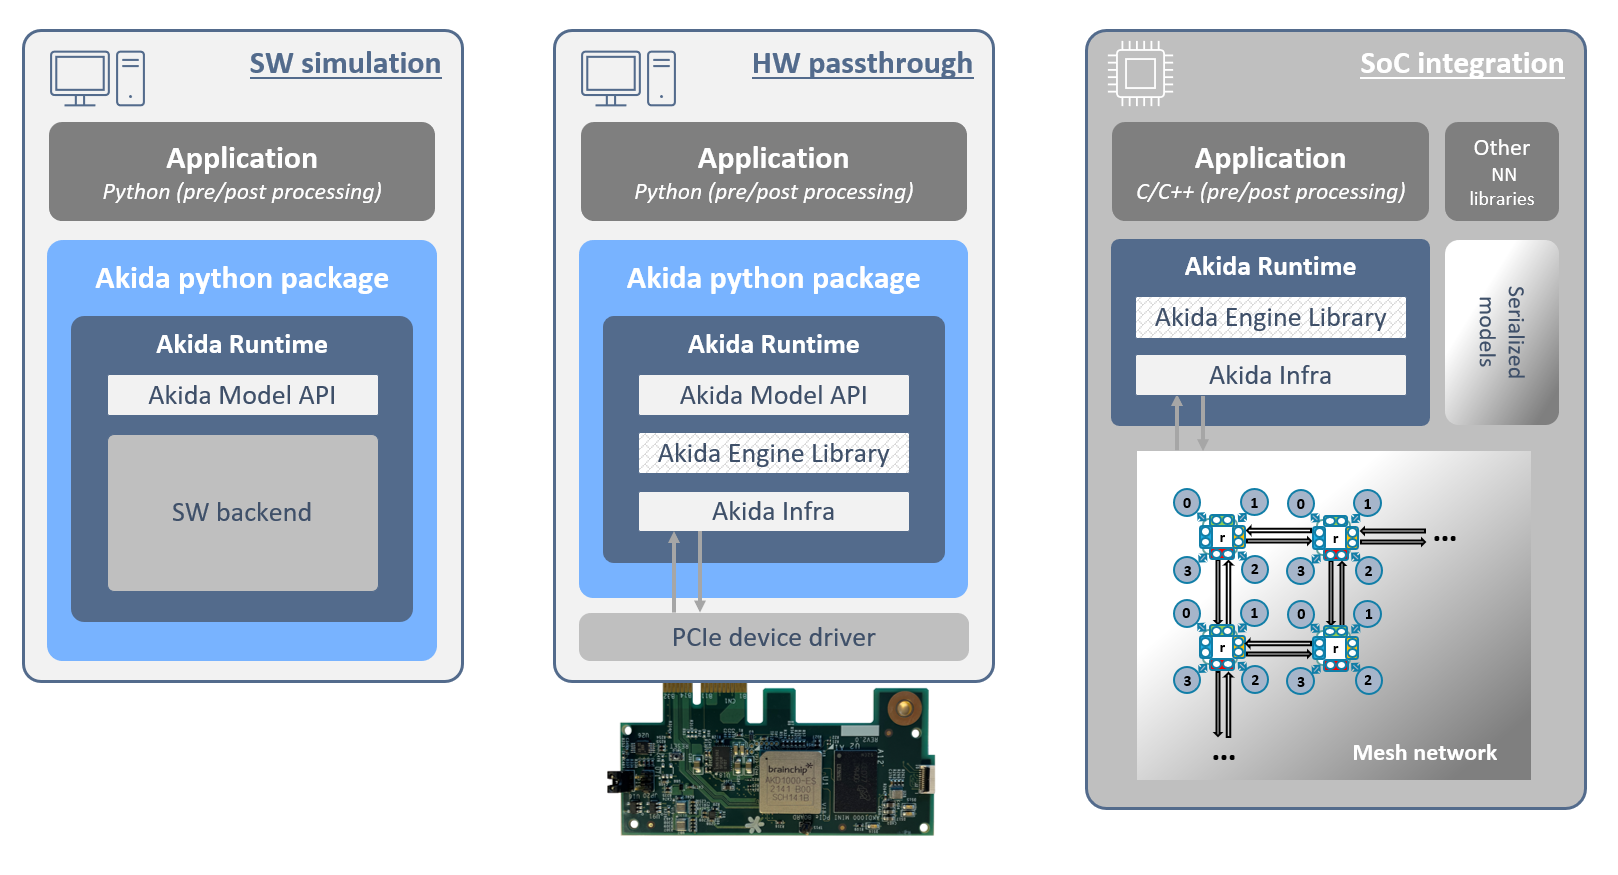
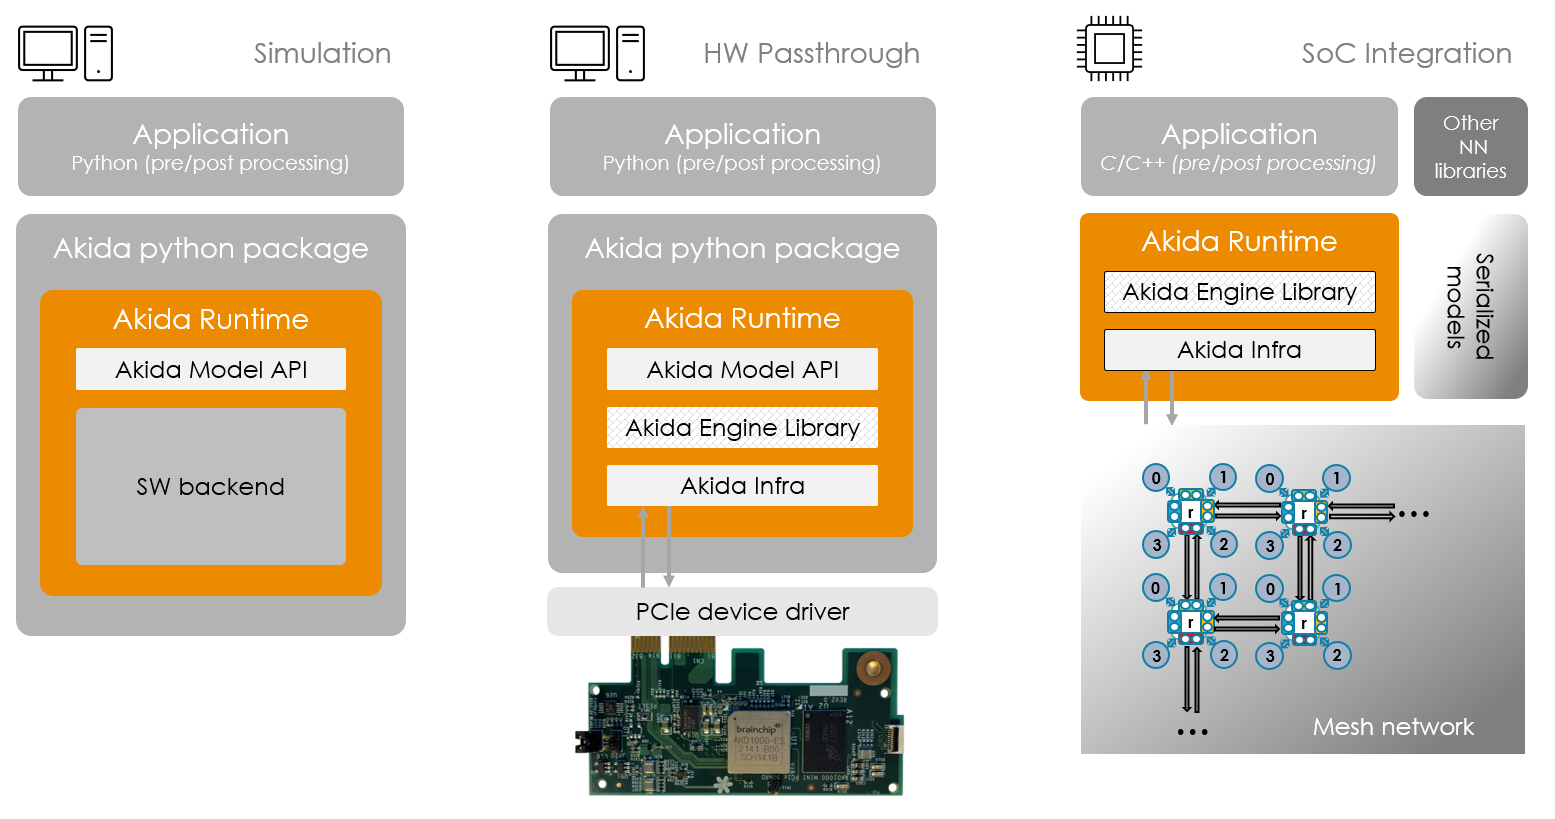
docs(overview): update and cleanup
* Updating the various figures to match BRN branding
* Removing IP related information and providing links for it
* Simplifying the information provided (details will be in
  the tutorials

diff --git a/doc/index.rst b/doc/index.rst
@@ -17,162 +17,92 @@ Overview
    license.rst
 
 
-The Akida Neural Processor
---------------------------
-
-BrainChip's Akida integrated circuit technology is an ultra-low power, high
-performance, minimum memory footprint, event domain neural processor targeting
-Edge AI applications. In addition, because the architecture is based upon an
-event domain processor, leveraging fundamental principles from biological SNNs,
-the processor supports incremental learning. This allows a deeply trained
-network to continue to learn new classifiers without requiring a re-training
-process. Due to the highly optimized architecture, the Akida Neural Processor
-eliminates the need for a CPU to run the neural network algorithm and in most
-cases eliminates the need for a DRAM external to the neural fabric. The
-elimination of external devices makes the Akida solution significantly more
-power efficient compared to deep learning accelerators which require both
-external CPU and memory.
-
-Built around a mesh-connected array of neural processor units (NPUs) the
-architecture is highly scalable to meet the needs of a wide range of
-applications. The uniqueness of the BrainChip Akida Architecture lies in the
-ability of the hardware to run traditional feedforward, deeply learned CNN
-networks as well as native SNN networks. This documentation provides examples
-of how to develop both classes of solutions, using industry standard tool flows
-and networks, to solve a variety of application problems such as vision,
-acoustic, cybersecurity amongst others.
-
-The Akida neural processor is available both as Intellectual Property (IP)
-circuit design for integration in ASIC products or as a System on a Chip (SoC)
-product.
-
-As *Figure 1* shows, the SoC is built around a core neural processor comprised
-of 80 neural processing units, it includes a conversion complex and allows one
-to run popular convolutional neural networks (CNNs) such as MobileNet [#fn-1]_.
-Designers can use the Akida SoC to run industry standard CNNs, dramatically
-reducing power by changing convolutions to event based computations, or run
-native SNN solutions.
-
-.. figure:: img/Akida_Block_Diagram.png
-   :target: _images/Akida_Block_Diagram.png
-   :alt: Brainchip
-   :scale: 60%
-   :align: center
-
-   Figure 1. BrainChip Akida processor
-
-The Akida chip includes several key features that differentiate it from other
-neural network processors and deep learning accelerators. These are:
-
-* Event-based computing leveraging inherent data and activation sparsity
-* Fully configurable neural processing cores, supporting convolutional,
-  separable-convolutional, pooling and fully connected layers
-* Incremental learning after off-line training
-* On-chip few-shot training
-* Configurable number of NPUs
-* Programmable data to event converter
-* Event-based NPU engines running on a single clock
-* Configurable on-chip SRAM memory
-* Runs full neural networks in hardware
-* On chip communication via mesh network
-* On chip learning in event domain
-* Process technology independent platform
-* Network size customizable to application needs
-* IP deliverables include: RTL, dev tools, test suites and documentation
-
-*Figure 2* shows several examples of IP configurations that could be envisioned.
-Because the architecture is based upon a neural processing unit which is
-arrayed and mesh connected, the number of NPUs per solution is dependent upon
-the application need.
-
-.. figure:: img/Akida_IP.png
-   :target: _images/Akida_IP.png
-   :alt: Brainchip
-   :scale: 60%
-   :align: center
-
-   Figure 2. Akida IP example configurations
-
-
 The Akida Neuromorphic ML Framework
 -----------------------------------
 
-The Akida Neuromorphic ML Framework (MetaTF) relies on a high-level neural
-networks API, written in Python, and largely inspired by the `Keras API
-<https://keras.io>`_.
+| The Akida Development Environment (MetaTF) is a complete machine learning
+  framework that enables the seamless creation, training, and testing of neural
+  networks running on the `Akida Neuromorphic Processor IP <https://brainchip.com/akida2-0//>`_
+  simulator and the `AKD1000 reference SoC <https://brainchip.com/akida-neural-processor-soc/>`_.
+| It relies on a high-level neural networks API, written in Python, and
+  largely inspired by the `Keras API <https://keras.io>`_. It allows early
+  evaluation and design, as well as final tuning and productization of networks.
 
-The core data structure used by the Akida runtime is a neural network
-**model**\ , which itself is a linear stack of **layers**.
+.. figure:: img/Akida_Neural_Processor.png
+  :target: _images/Akida_Neural_Processor.png
+  :alt: Brainchip
+  :scale: 40%
+  :align: center
 
-MetaTF leverages the `TensorFlow <https://www.tensorflow.org/>`_ framework and
-`PyPI <https://pypi.org/>`_ for BrainChip tools installation.
-The major difference with other machine learning frameworks is that the data
-exchanged between layers is not the usual **dense** multidimensional arrays,
-but sets of spatially organized events that can be modelled as **sparse**
-multidimensional arrays.
+  AKD1000 reference SoC (left), Akida 2\ :sup:`nd` Generation IP (right)
 
-Throughout this documentation, those events will often be referred as "spikes",
-due to their close similarity with the signals exchanged by biological neurons.
+|
+|
+| MetaTF leverages the `TensorFlow <https://www.tensorflow.org/>`_ framework
+  and `PyPI <https://pypi.org/>`_ for the BrainChip tools installation.
+| It comprises four python packages:
 
-.. figure:: img/metatf.png
+  * a Model zoo (`akida-models <https://pypi.org/project/akida-models>`_) to
+    easily instantiate and train Akida compatible models or to load directly
+    their quantized versions,
+
+  * a quantization tool (`quantizeml <https://pypi.org/project/quantizeml>`_)
+    that allows the quantization of CNN, Transformer and TENN models using
+    low-bitwidth weights and outputs,
+
+  * a conversion tool (`cnn2snn <https://pypi.org/project/cnn2snn>`_) that
+    provides means to convert models that were trained and quantized,
+
+  * an interface to the Akida Neuromorphic Processor (`akida <https://pypi.org/project/akida>`_)
+    including a runtime, an Hardware Abstraction Layer (HAL) and software
+    backend. It allows the simulation of Akida Neuromorphic Processor and use
+    of the AKD1000 reference SoC.
+
+ .. figure:: img/metatf.png
    :target: _images/metatf.png
    :alt: Brainchip
-   :scale: 60%
+   :scale: 40%
    :align: center
 
-   Figure 3. Akida MetaTF ML Framework
+   Akida MetaTF ML Framework
 
-The MetaTF ML framework comprises three main python packages:
+|
+|
+| The Akida python package can be used to simulate the Akida Neuromorphic Processor
+  IP without the need of any hardware. It exposes the features provided by the Akida
+  Runtime, allowing a seamless integration with python machine-learning frameworks
+  for easy prototyping and testing of the Akida Neuromorphic Processor IP.
+| It includes:
 
-* the `Akida python package <https://pypi.org/project/akida>`_ is an interface
-  to the Brainchip Akida Neuromorphic System-on-Chip (NSoC). To allow the
-  development of Akida models without an actual Akida hardware, it includes a
-  runtime, an Hardware Abstraction Layer (HAL) and a software backend that
-  simulates the Akida NSoC (see *Figure 4* and *Figure 5*\).
+  * the Akida model API, a library supporting the native creation of Akida models,
+    the inference of instantiated models, their serialization (program sequences)
+    and their mapping for a targetted hardware device,
 
-* the `CNN2SNN tool <https://pypi.org/project/cnn2snn>`_ provides means to
-  convert Convolutional Neural Networks (CNN) that were trained using Deep
-  Learning methods to event domain, low-latency and low-power network for use
-  with the Akida runtime.
+  * a SW backend (simulator),  CPU implementation of the Akida training and inference,
 
-* the `Akida model zoo <https://pypi.org/project/akida-models>`_ contains
-  pre-created network models built with the Akida sequential API and the
-  CNN2SNN tool using quantized Keras models.
-
-.. figure:: img/akida.png
-   :target: _images/akida.png
-   :alt: Brainchip
-   :scale: 60%
-   :align: center
-
-   Figure 4. Akida python package
+  * the Akida Engine Library, C++ library supporting the instantiation of model programs
+    produced by the model library on actual hardware devices, the inference on
+    programmed devices.
 
 .. figure:: img/akida_runtime.png
    :target: _images/akida_runtime.png
    :alt: Brainchip
-   :scale: 60%
+   :scale: 40%
    :align: center
 
-   Figure 5. Akida runtime configurations
+   Akida runtime configurations
 
 
 The Akida examples
 ------------------
 
-The `examples section <examples/index.html>`_ comprises a zoo of event-based CNN
-and SNN tutorials. One can check models performances against MNIST, ImageNet and
-Google Speech Commands (KWS) datasets.
+The `examples section <examples/index.html>`_ comprises several tutorials and
+examples to get easily started with the Akida technology. One can check the
+Akida incremental learning and inference in a wide variety of use cases.
 
-.. note::
+.. warning::
     | While the Akida examples are provided under an
       `Apache License 2.0 <https://www.apache.org/licenses/LICENSE-2.0.txt>`_,
       the underlying Akida library is proprietary.
     | Please refer to the `End User License Agreement <license.html>`__ for
       terms and conditions.
-
-____
-
-.. [#fn-1] In most cases the entire network can be accommodated using the
-   on-chip SRAM.
-   Even the large MobileNet network used to classify 1000 classes of ImageNet fits
-   comfortably.
